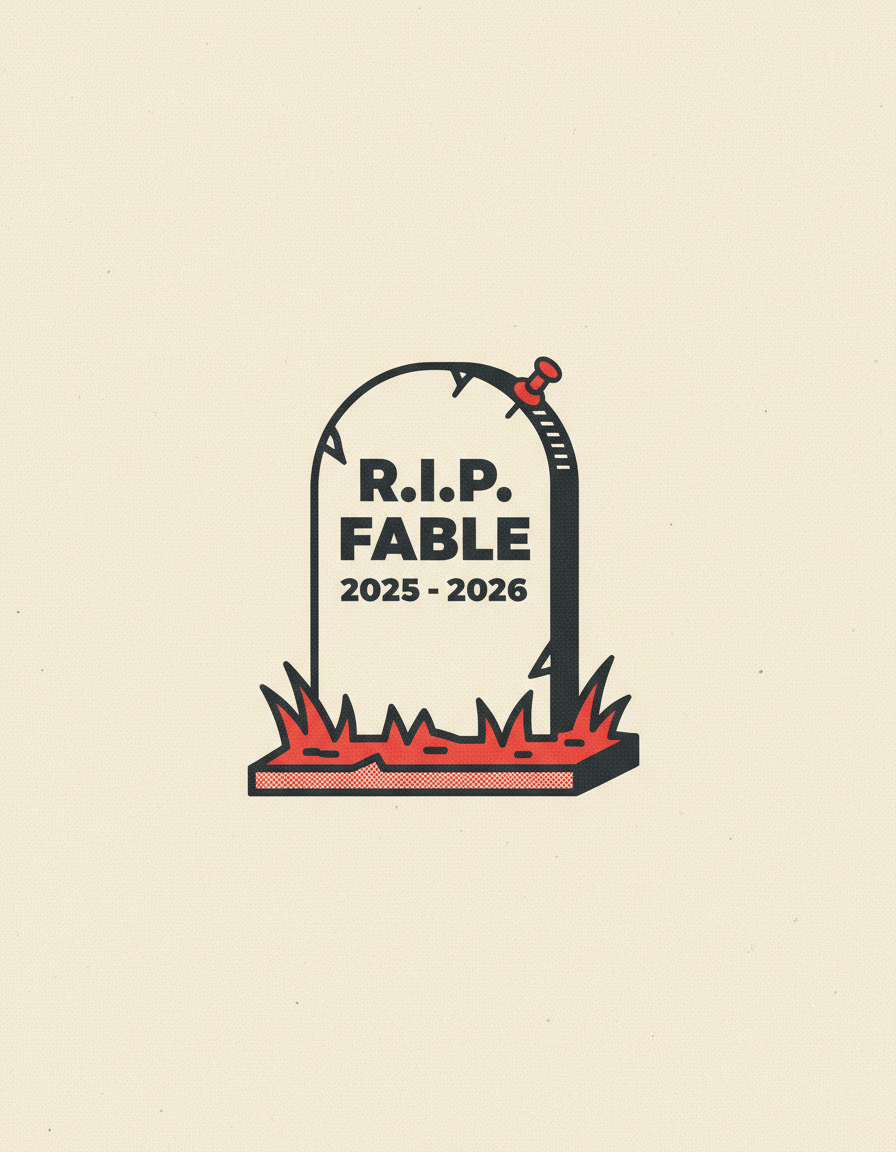
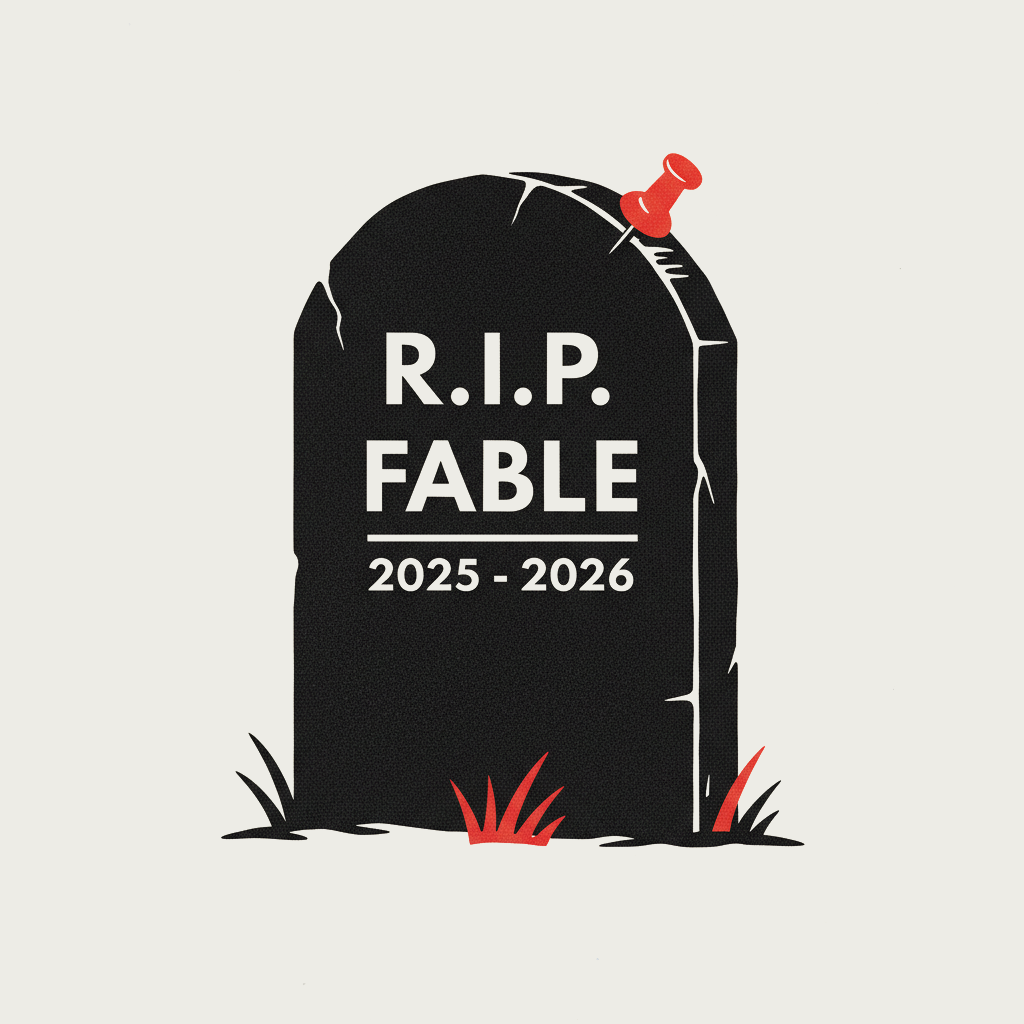
feat: bolder site-matching tombstone + optional sign-in on submit
- Regenerate the R.I.P. Fable headstone: larger, bolder stone filling the
  frame, same ink+red palette, and recolor the background to the exact site
  paper (#EDECE6) so it no longer reads as cream. Also patched out a hex code
  the image model baked into the corner.
- Submit page now shows signed-out visitors an optional "Sign in" link
  (redirects back to /submit) — accounts stay optional, just discoverable.

Changed region(s): [[0.2188, 0.125, 0.7812, 0.8438]]

diff --git a/src/app/submit/page.tsx b/src/app/submit/page.tsx
@@ -1,4 +1,5 @@
 import type { Metadata } from 'next'
+import Link from 'next/link'
 import { createSupabaseServerClient } from '@/lib/supabase/server'
 import { Header } from '@/components/layout/header'
 import { Footer } from '@/components/layout/footer'
@@ -33,6 +34,18 @@ export default async function SubmitPage() {
                   No account needed — just your name, a title, and media or a link. Every project is
                   reviewed before it pins to the public board.
                 </p>
+                {!user && (
+                  <p className="label-mono text-muted-foreground mt-4">
+                    Want a profile to keep your projects together?{' '}
+                    <Link
+                      href="/login?redirectTo=/submit"
+                      className="text-accent font-bold hover:underline"
+                    >
+                      Sign in
+                    </Link>{' '}
+                    — optional.
+                  </p>
+                )}
               </div>
               <div className="divide-ink grid grid-cols-2 divide-x-2">
                 <div className="p-5">
